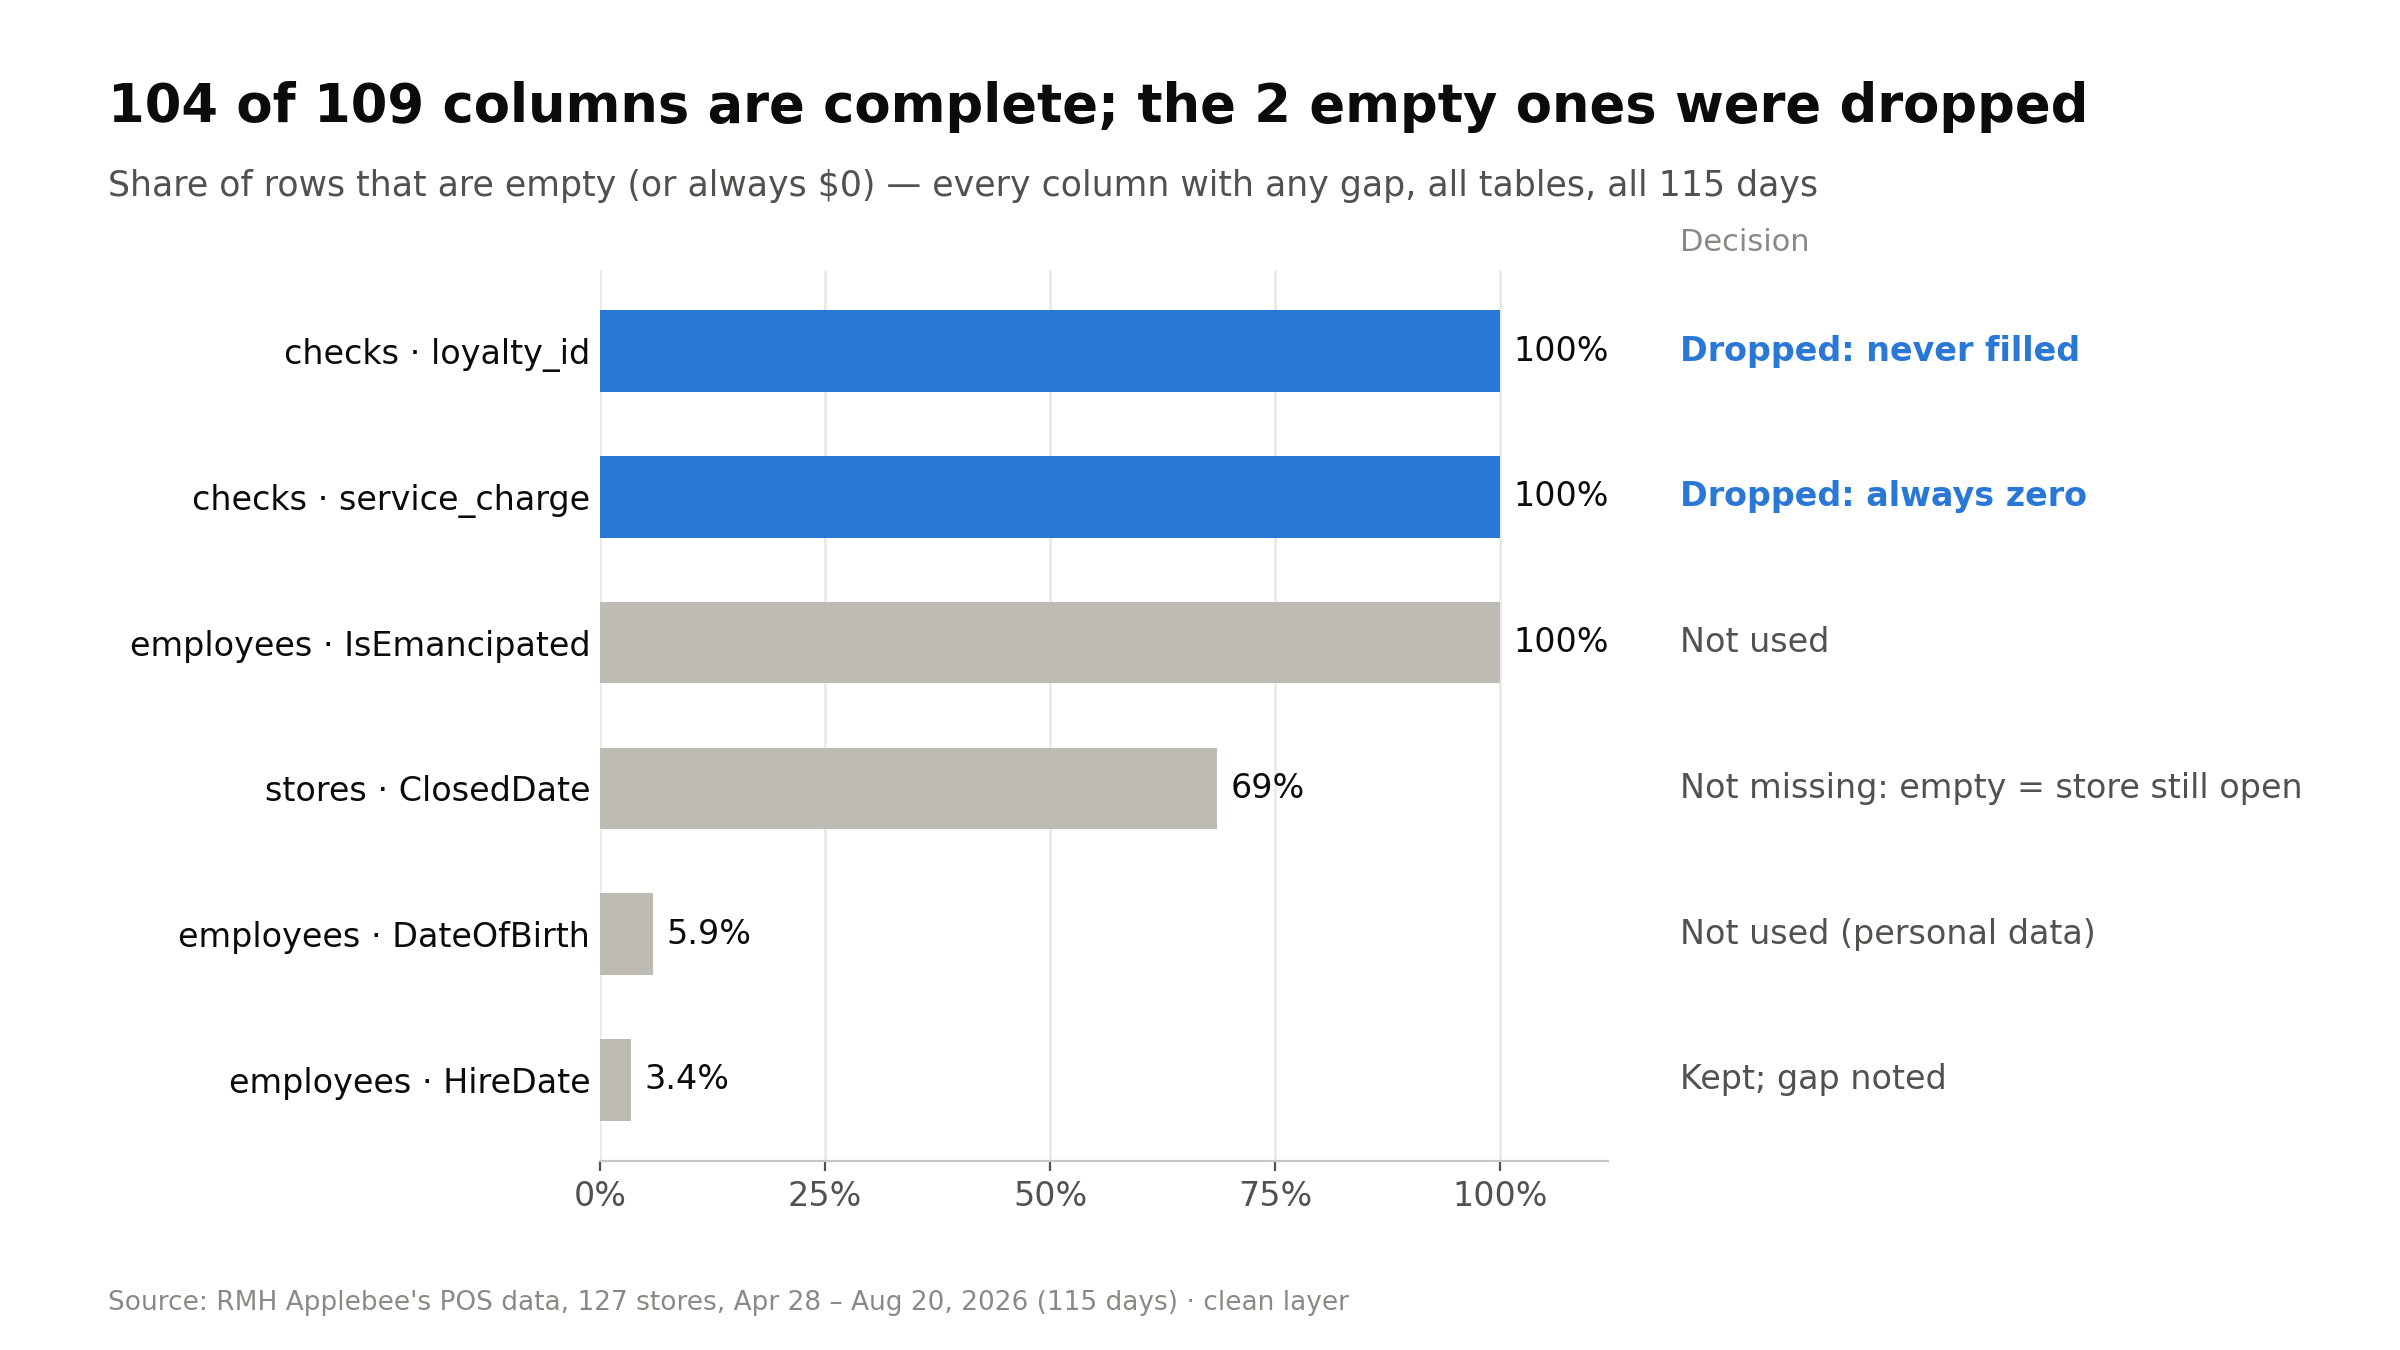
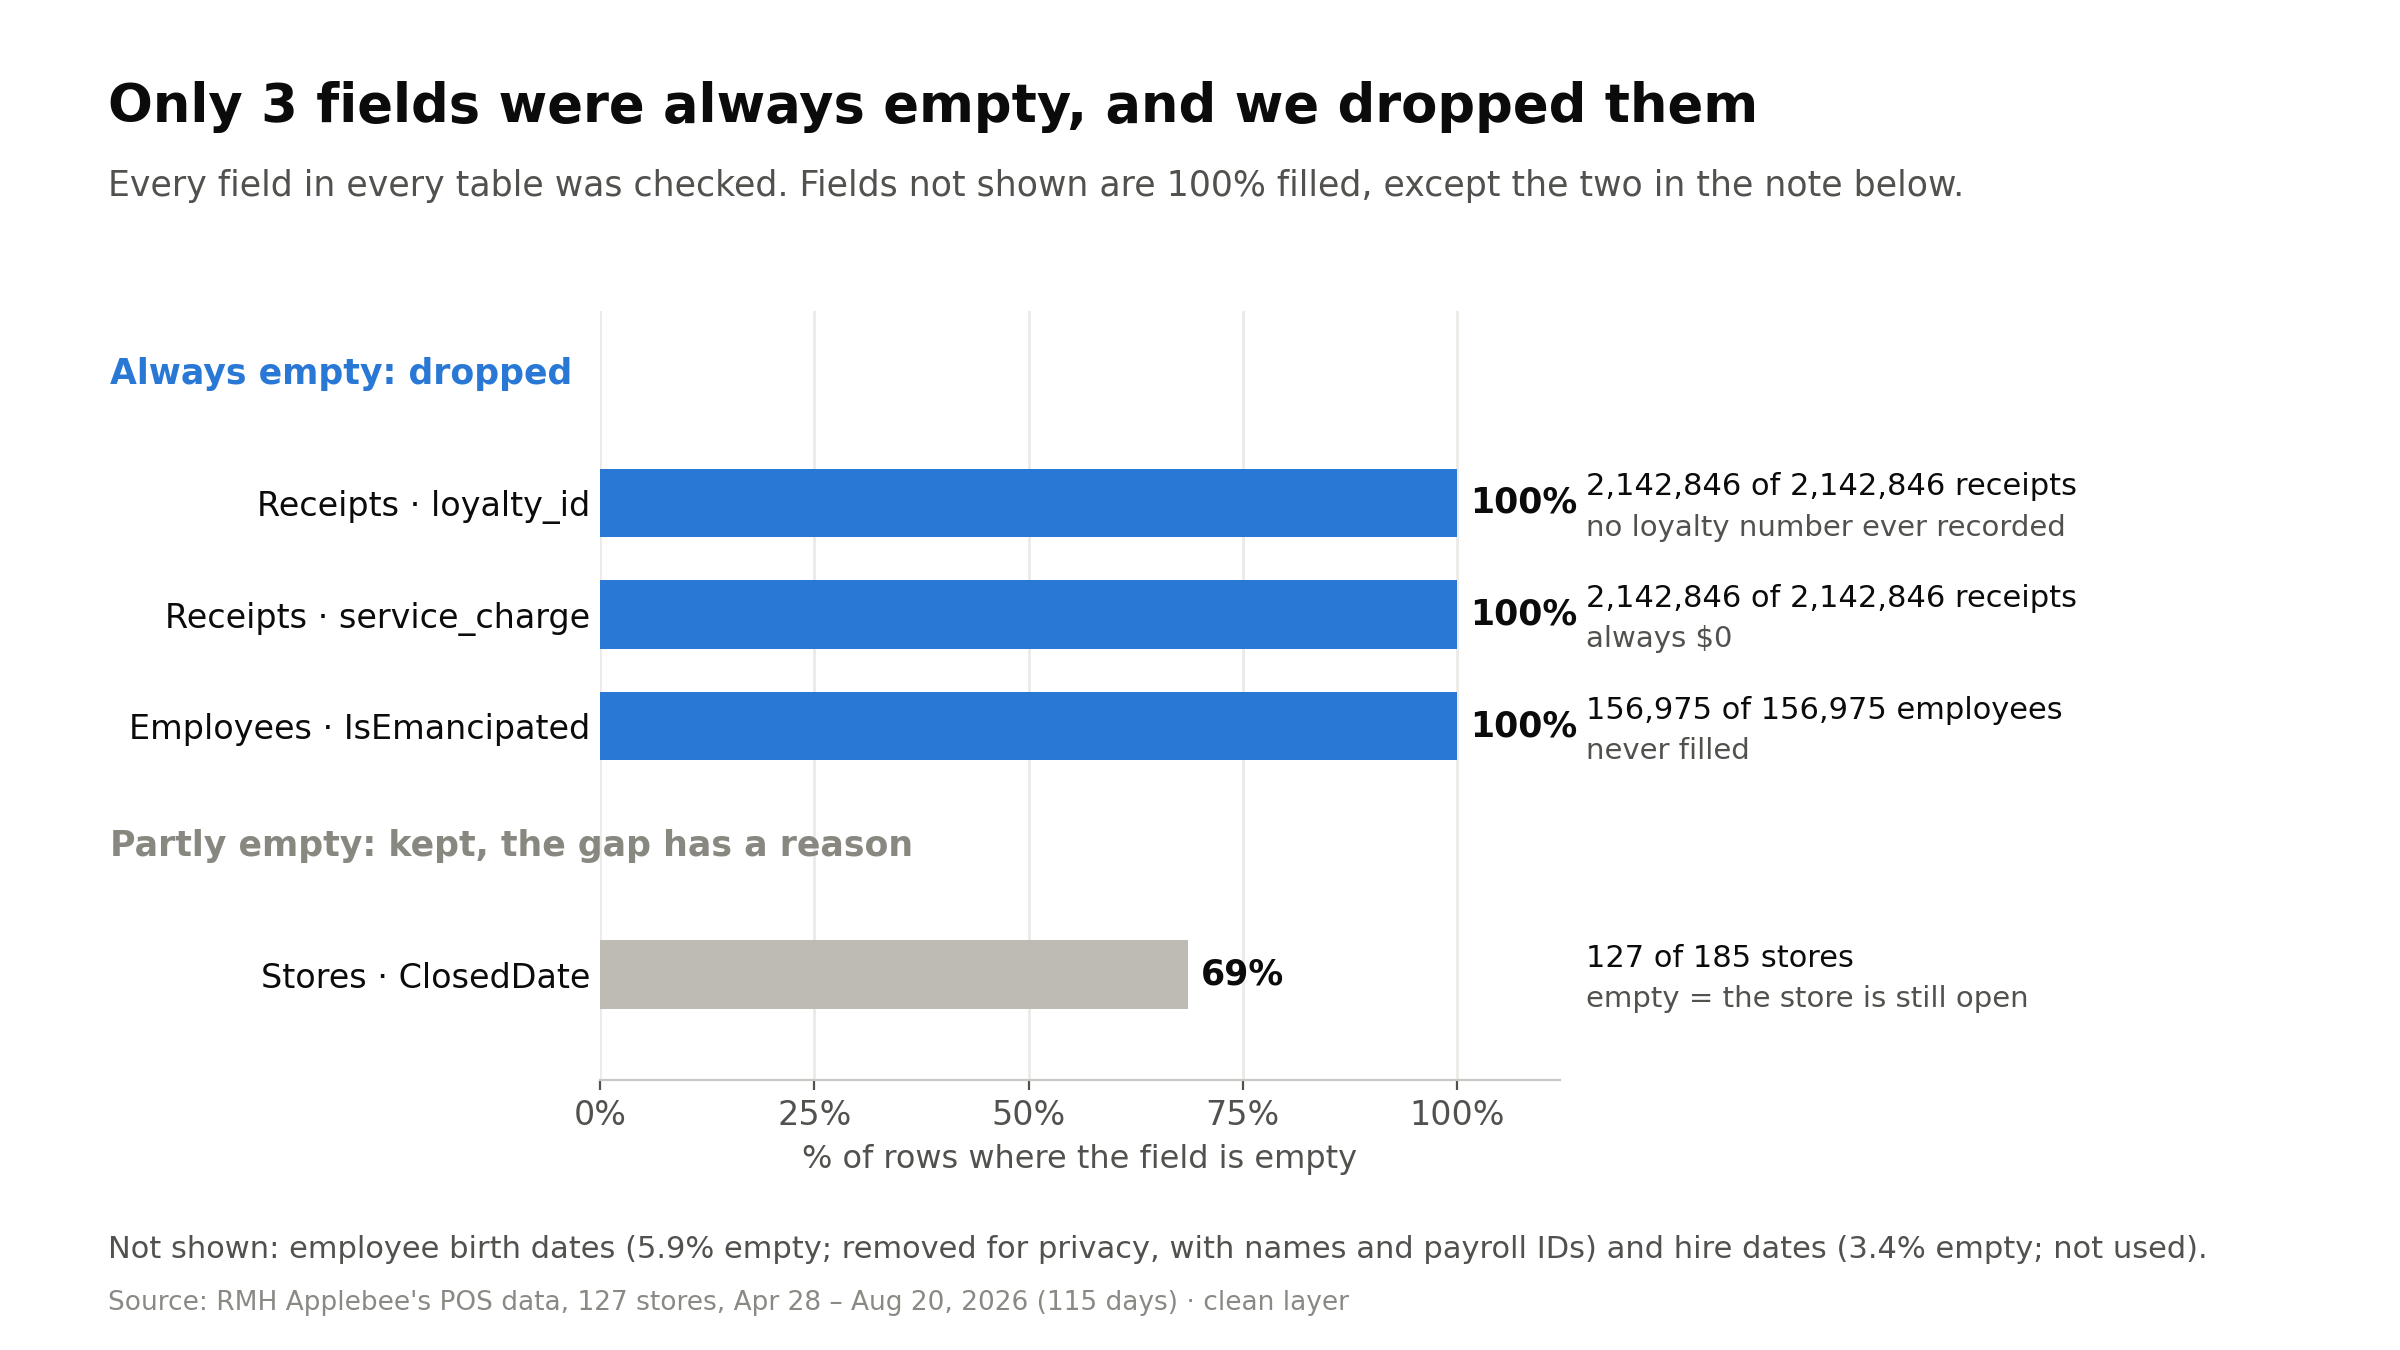
update charts

diff --git a/eda_work/scripts/charts.py b/eda_work/scripts/charts.py
@@ -63,29 +63,45 @@ money = lambda v: f"${v/1e6:,.2f}M"
 
 # ================================================================= 01 missing values (step 3)
 def c01():
-    rows = [  # (label, % empty, how it is empty, decision, accent?)
-        ("checks · loyalty_id", 100.0, "always empty", "Dropped: never filled", True),
-        ("checks · service_charge", 100.0, "always $0", "Dropped: always zero", True),
-        ("employees · IsEmancipated", 100.0, "always empty", "Not used", False),
-        ("stores · ClosedDate", 68.6, "empty", "Not missing: empty = store still open", False),
-        ("employees · DateOfBirth", 5.9, "empty", "Not used (personal data)", False),
-        ("employees · HireDate", 3.4, "empty", "Kept; gap noted", False),
+    n_chk = q(f"SELECT count(*) FROM {CK}")[0][0] + 229          # raw receipts (before removing exact copies)
+    n_emp = q(f"SELECT count(*) FROM read_parquet('{C}/employees.parquet')")[0][0]
+    n_sto = q(f"SELECT count(*) FROM read_parquet('{C}/stores.parquet')")[0][0]
+    n_open = q(f"SELECT count(*) FROM read_parquet('{C}/stores.parquet') WHERE closed_date IS NULL")[0][0]
+    mv = REPO / "eda_work" / "reports" / "missing_values.csv"
+    hire = q(f"SELECT n_null FROM read_csv('{mv.as_posix()}') WHERE column_name='HireDate'")[0][0]
+    groups = [
+        ("Always empty: dropped", BLUE, [
+            ("Receipts · loyalty_id", n_chk, n_chk, "receipts", "no loyalty number ever recorded"),
+            ("Receipts · service_charge", n_chk, n_chk, "receipts", "always $0"),
+            ("Employees · IsEmancipated", n_emp, n_emp, "employees", "never filled"),
+        ]),
+        ("Partly empty: kept, the gap has a reason", GRAY_D, [
+            ("Stores · ClosedDate", n_open, n_sto, "stores", "empty = the store is still open"),
+        ]),
     ]
-    tot = q("SELECT count(*), count(*) FILTER (WHERE pct_null=0) FROM read_csv('" + (REPO/'eda_work'/'reports'/'missing_values.csv').as_posix() + "')")[0]
-    f = fig(f"{tot[1]} of {tot[0]} columns are complete; the 2 empty ones were dropped",
-            "Share of rows that are empty (or always $0) — every column with any gap, all tables, all 115 days")
-    ax = f.add_axes([0.25, 0.14, 0.42, 0.66])
-    y = np.arange(len(rows))[::-1]
-    for yi, (lab, v, kind, dec, acc) in zip(y, rows):
-        ax.barh(yi, v, height=0.56, color=BLUE if acc else GRAY)
-        ax.text(v + 1.5, yi, f"{v:.0f}%" if v >= 10 else f"{v:.1f}%", va="center", fontsize=12, color=INK)
-    ax.set_yticks(y, [r[0] for r in rows], fontsize=12, color=INK)
-    ax.set_xlim(0, 112); ax.xaxis.set_major_formatter(mt.PercentFormatter()); ax.set_xticks([0, 25, 50, 75, 100])
+    f = fig("Only 3 fields were always empty, and we dropped them",
+            "Every field in every table was checked. Fields not shown are 100% filled, except the two in the note below.")
+    ax = f.add_axes([0.25, 0.20, 0.40, 0.57])
+    y, ticks, labels = 0, [], []
+    for gname, col, rows in groups:
+        ax.text(-0.51, y + 0.15, gname, fontsize=12.5, color=col, fontweight="bold", ha="left", va="bottom",
+                transform=ax.get_yaxis_transform())
+        y -= 0.75
+        for lab, n_empty, n_all, unit, why in rows:
+            pct = n_empty / n_all * 100
+            ax.barh(y, pct, height=0.55, color=col if col == BLUE else GRAY)
+            ax.text(pct + 1.5, y, f"{pct:.1f}%" if pct < 10 else f"{pct:.0f}%", va="center", fontsize=12.5, color=INK, fontweight="bold")
+            ax.text(115, y + 0.13, f"{n_empty:,} of {n_all:,} {unit}", va="center", fontsize=11, color=INK, clip_on=False)
+            ax.text(115, y - 0.2, why, va="center", fontsize=10.5, color=INK2, clip_on=False)
+            ticks.append(y); labels.append(lab); y -= 0.9
+        y -= 0.35
+    ax.set_yticks(ticks, labels, fontsize=12, color=INK)
+    ax.set_ylim(y + 0.4, 0.8); ax.set_xlim(0, 112)
+    ax.xaxis.set_major_formatter(mt.PercentFormatter()); ax.set_xticks([0, 25, 50, 75, 100])
+    ax.set_xlabel("% of rows where the field is empty", fontsize=11.5)
     grid_x(ax); ax.tick_params(axis="y", length=0); ax.spines["left"].set_visible(False)
-    ax2 = f.add_axes([0.70, 0.14, 0.28, 0.66], sharey=ax); ax2.axis("off")
-    for yi, (lab, v, kind, dec, acc) in zip(y, rows):
-        ax2.text(0, yi, dec, va="center", fontsize=12, color=BLUE if acc else INK2, fontweight="bold" if acc else "normal")
-    ax2.text(0, len(rows) - 0.35, "Decision", fontsize=11, color=MUTED, va="bottom")
+    f.text(0.045, 0.068, f"Not shown: employee birth dates (5.9% empty; removed for privacy, with names and payroll IDs) and hire dates ({hire/n_emp:.1%} empty; not used).",
+           fontsize=11, color=INK2)
     save(f, "01_missing_values.png")
 
 # ================================================================= 02 cleaning funnel (step 3)
